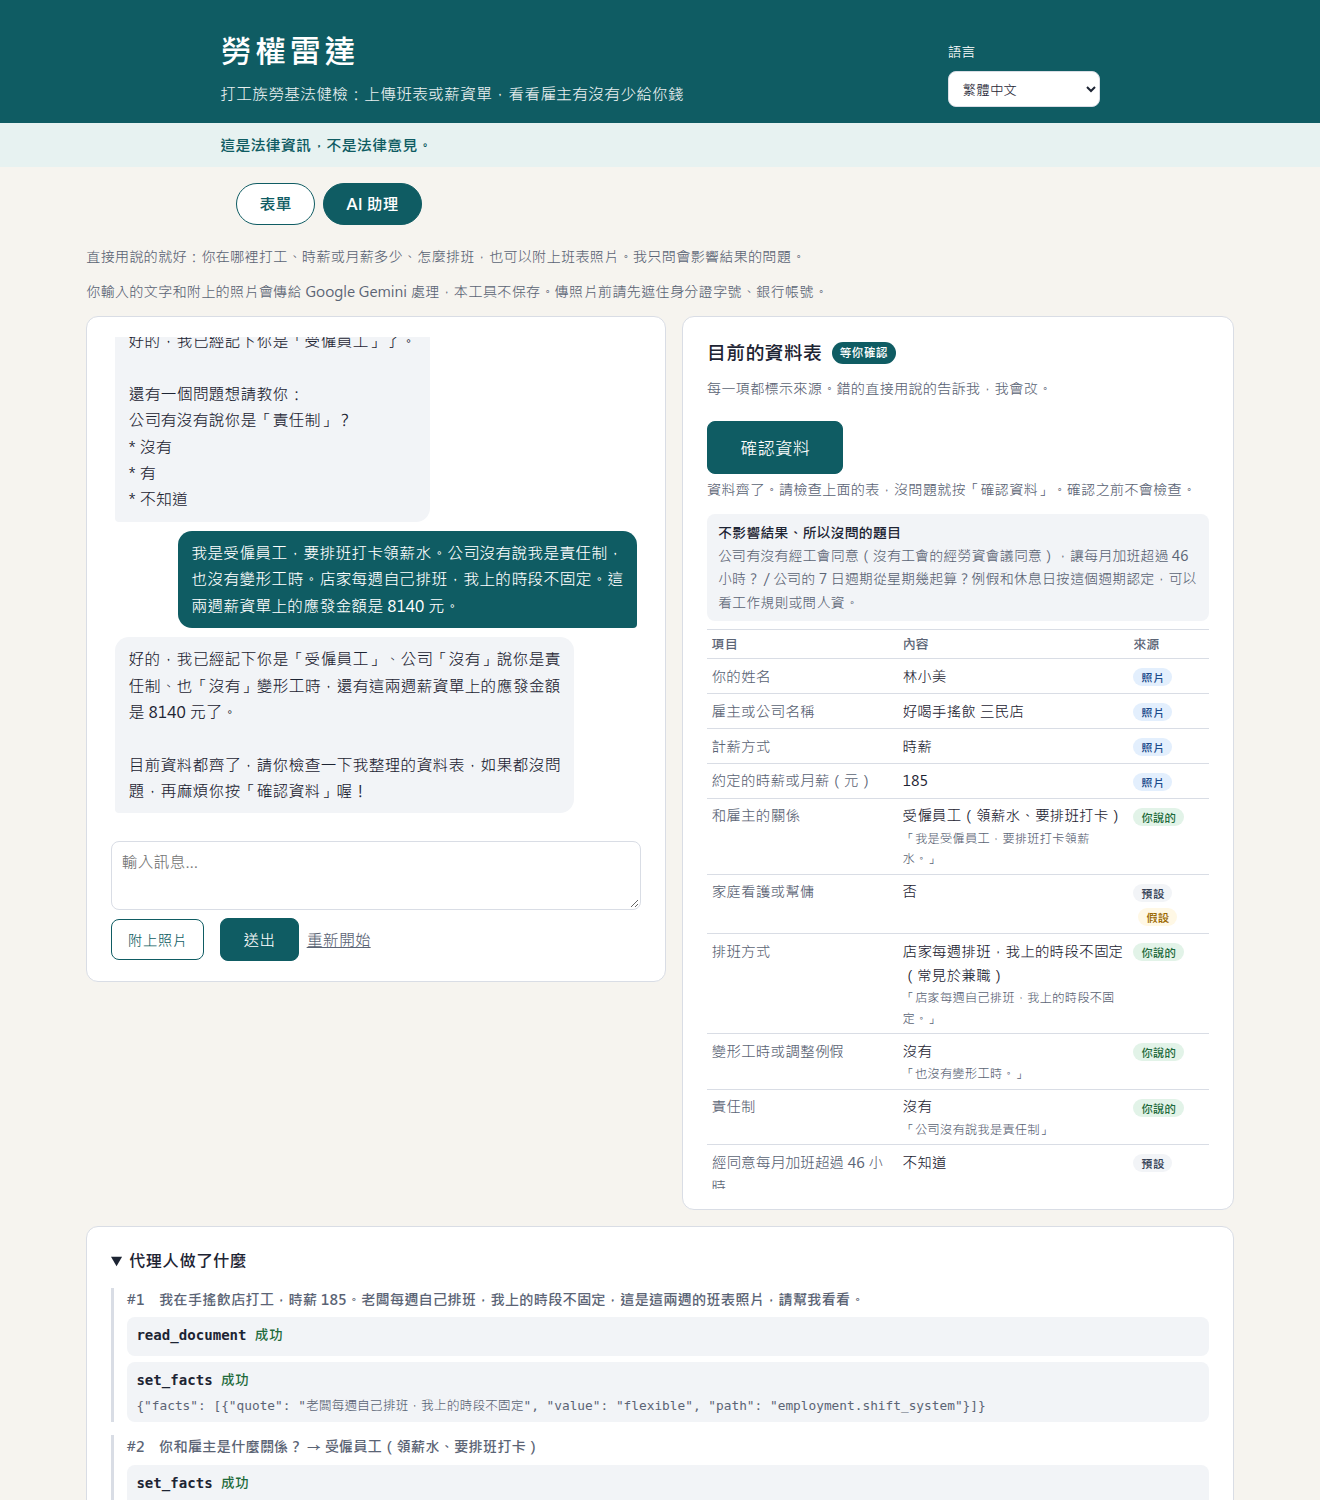
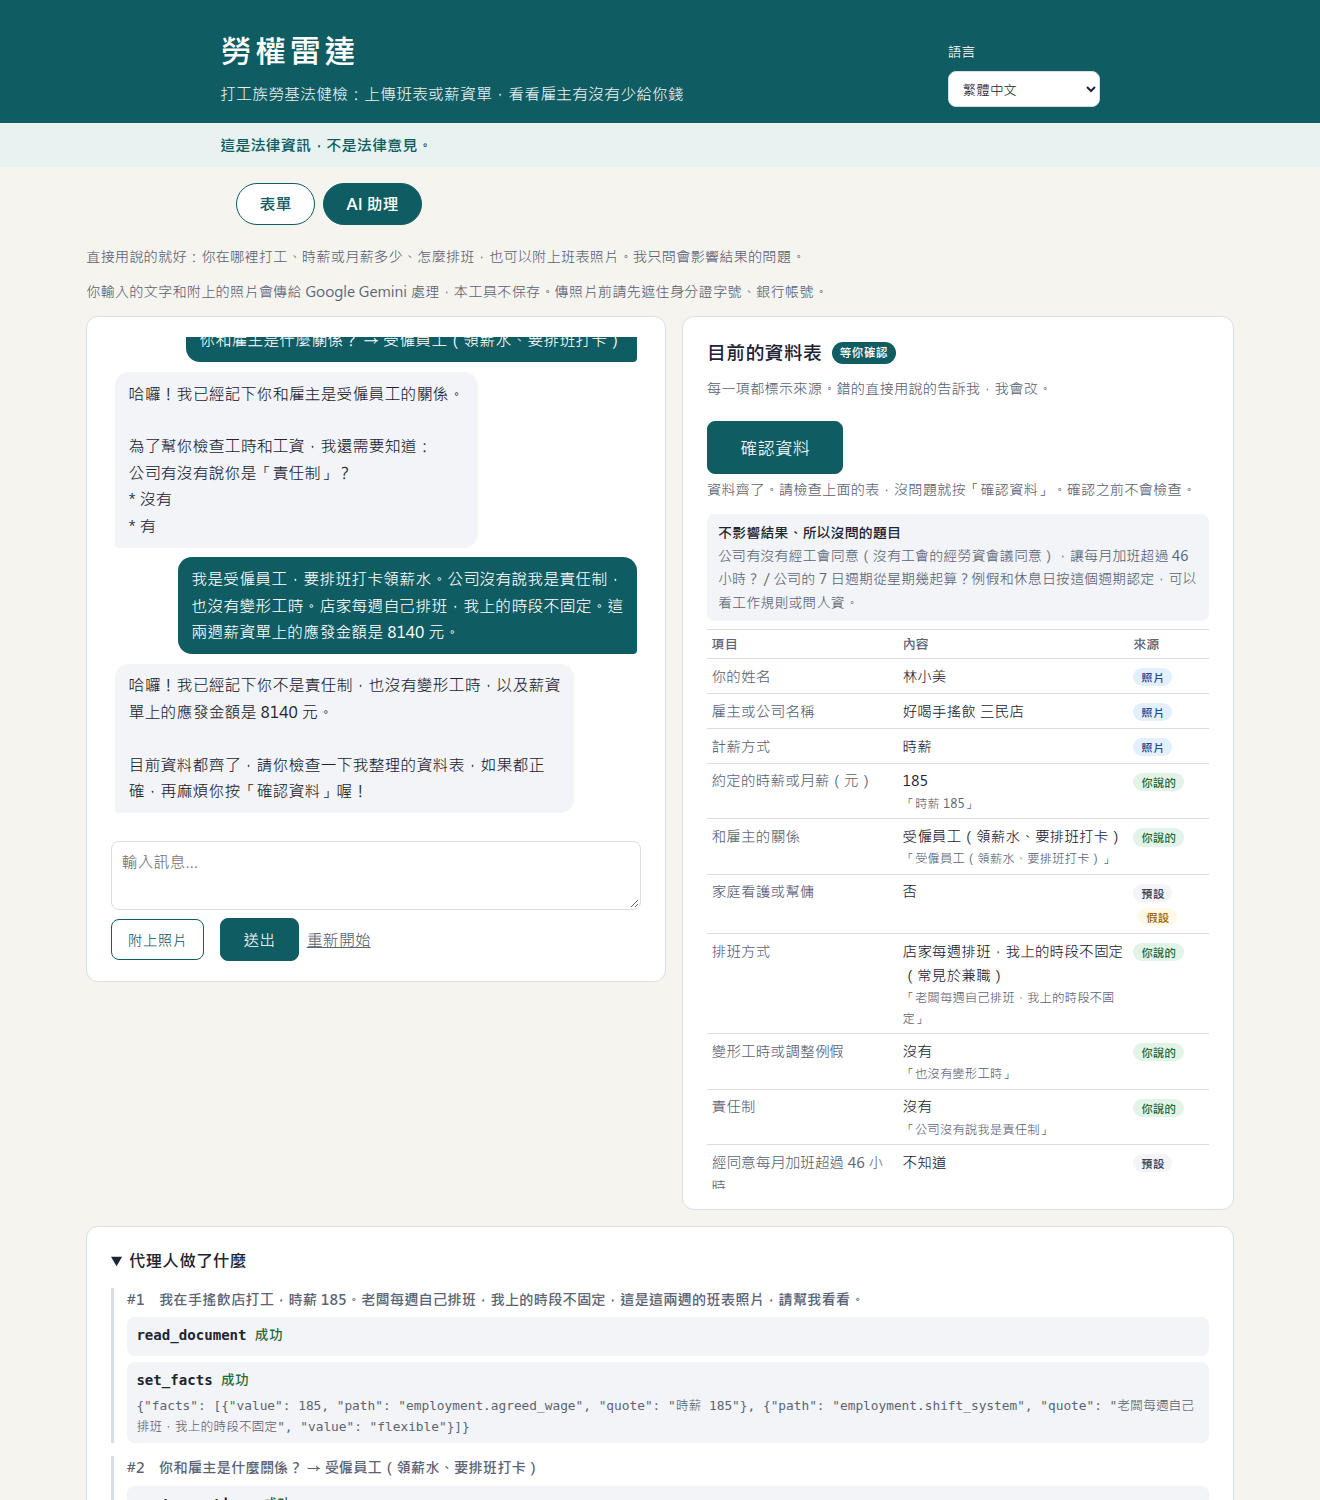
代理人：點選的回合告訴模型答案已存好；重拍介面截圖
實機截圖時，工人點了「受僱員工」之後，模型兩次用點選那一行當引文呼叫 set_facts，兩次都被拒，軌跡上多了兩個紅色事件。點選的回合現在在模型看到的訊息後面附一句「系統已經存好，用 next_questions 看還有什麼要問」，重拍時模型改呼叫 next_questions，沒有再被拒。截圖用 tools/agent_ui_shot.py 重拍。

diff --git a/tests/test_agent_loop.py b/tests/test_agent_loop.py
@@ -9,6 +9,7 @@ from labor_radar.agent import questions
 from labor_radar.agent.case import Case, Phase
 from labor_radar.agent.llm import LLMError, ScriptedLLM, Step, ToolCall
 from labor_radar.agent.loop import MAX_STEPS, run_turn
+from labor_radar.agent.questions import Tap
 from labor_radar.agent.tools import Attachment
 
 OPENING = ("我在手搖飲打工，時薪185，10/7 17:00到23:00，10/8 08:00到13:00。老闆每週排班，今年是2026年。")
@@ -345,6 +346,14 @@ def test_an_attached_file_is_read_before_the_model_gets_to_choose(monkeypatch):
     attached = ScriptedLLM([Step.calling(("read_document", {})), Step.saying("請告訴我時薪。")])
     run_turn(Case(), "這是班表", attached, "zh-TW", Attachment(b"x", "image/png"))
     assert [r.calls for r in attached.requests] == ["read_document", "auto"]
+
+
+def test_the_model_is_told_a_tapped_answer_is_already_stored():
+    llm = ScriptedLLM([Step.calling(("next_questions", {})), Step.saying("好，請檢查資料表。")])
+    result = run_turn(confirmed_case().model_copy(update={"confirmed": False}), Tap("week_starts_on", "monday"), llm, "zh-TW")
+    assert result.case.draft["employment"]["week_starts_on"] == "monday"
+    [said, note] = llm.requests[0].contents[-1]["parts"]
+    assert said["text"].endswith("→ 星期一") and "系統已經存好" in note["text"]
 
 
 def test_a_turn_without_a_file_still_opens_with_a_tool_call():

diff --git a/labor_radar/agent/loop.py b/labor_radar/agent/loop.py
@@ -81,6 +81,9 @@ def _contents(case: Case, attachment: Attachment | None) -> list[dict]:
     if attachment is not None:
         contents[-1]["parts"].append({"text": f"（這則訊息附了一個檔案：{attachment.name or attachment.mime}。"
                                               "內容要用 read_document 讀取。）"})
+    if case.history[-1].tapped:
+        contents[-1]["parts"].append({"text": "（工人點選了這個選項，系統已經存好。不要再用 set_facts 存它，"
+                                              "用 next_questions 看還有什麼要問。）"})
     return contents
 
 
